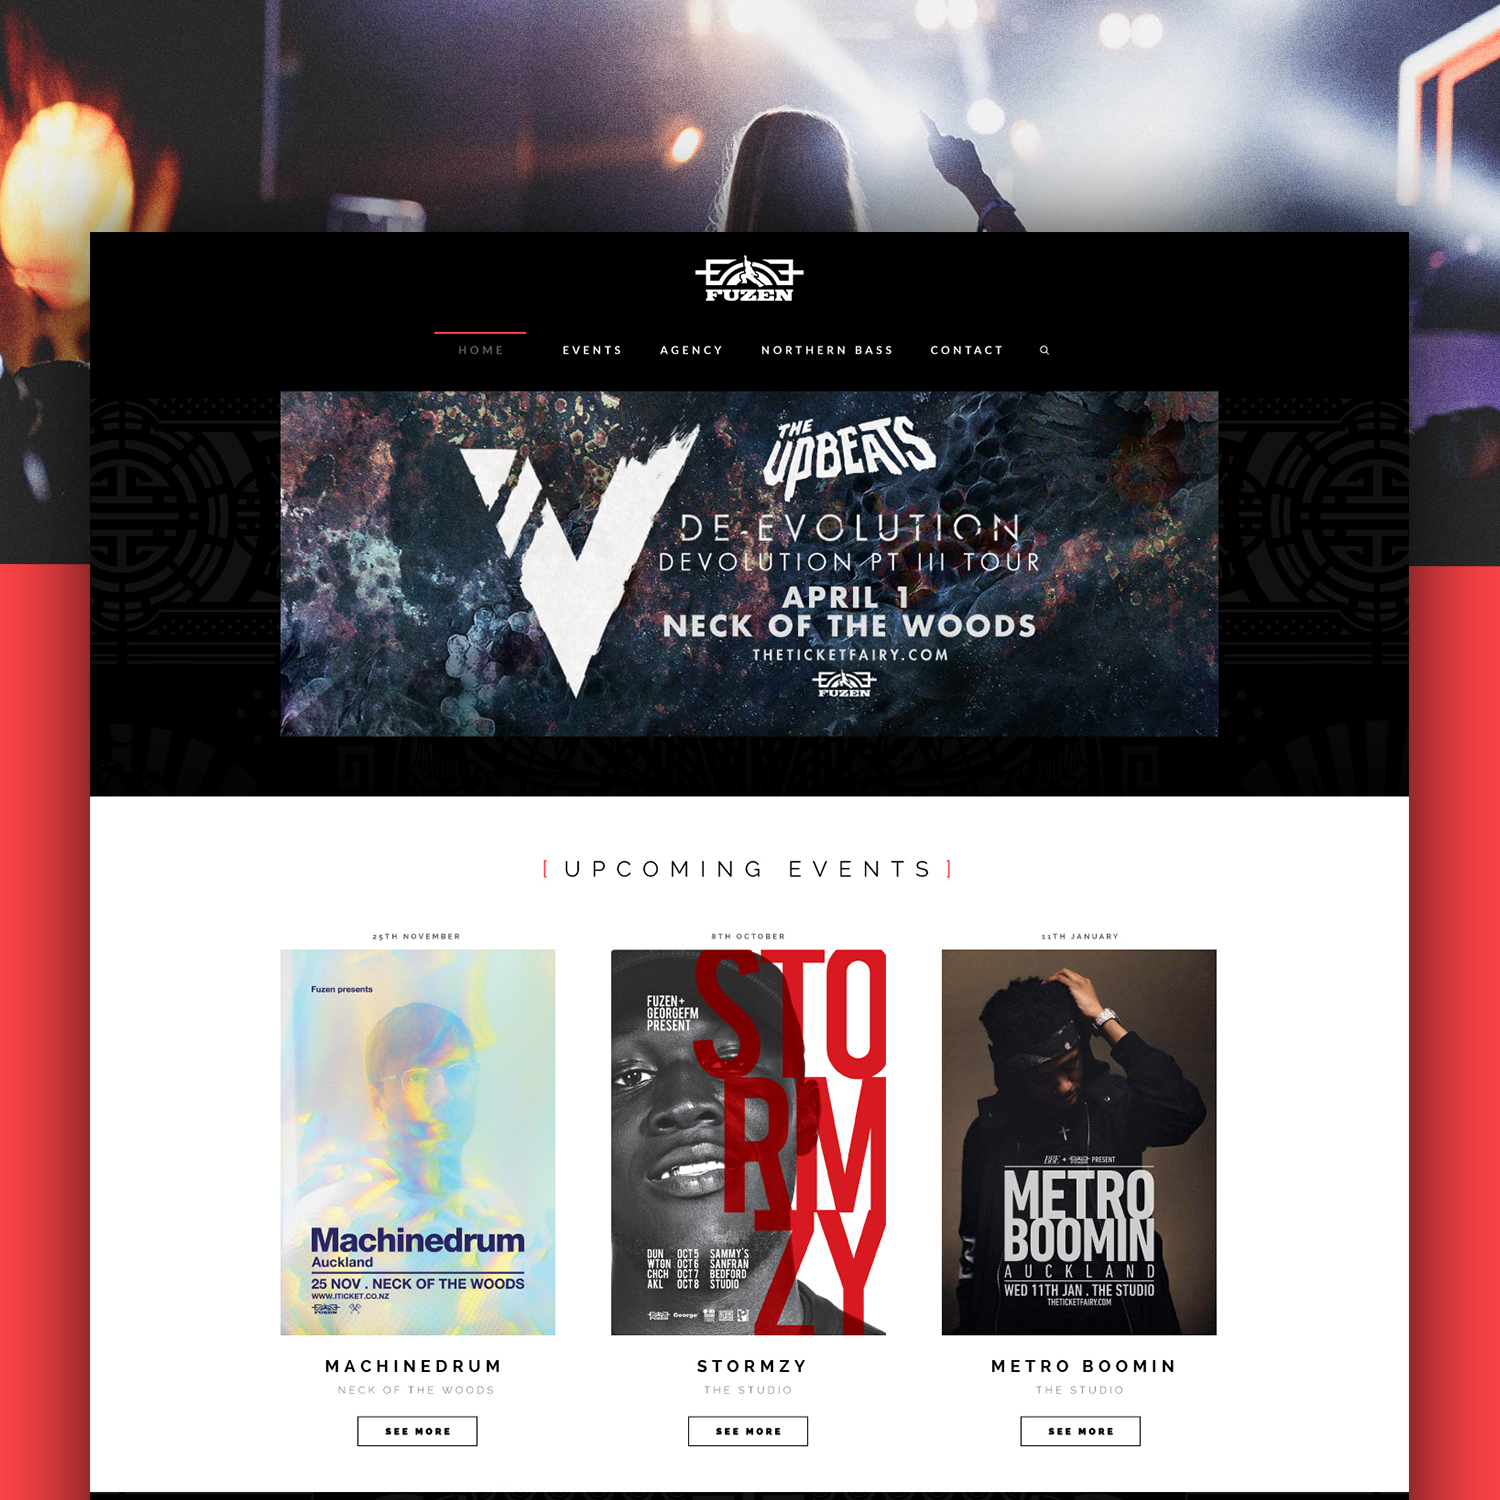
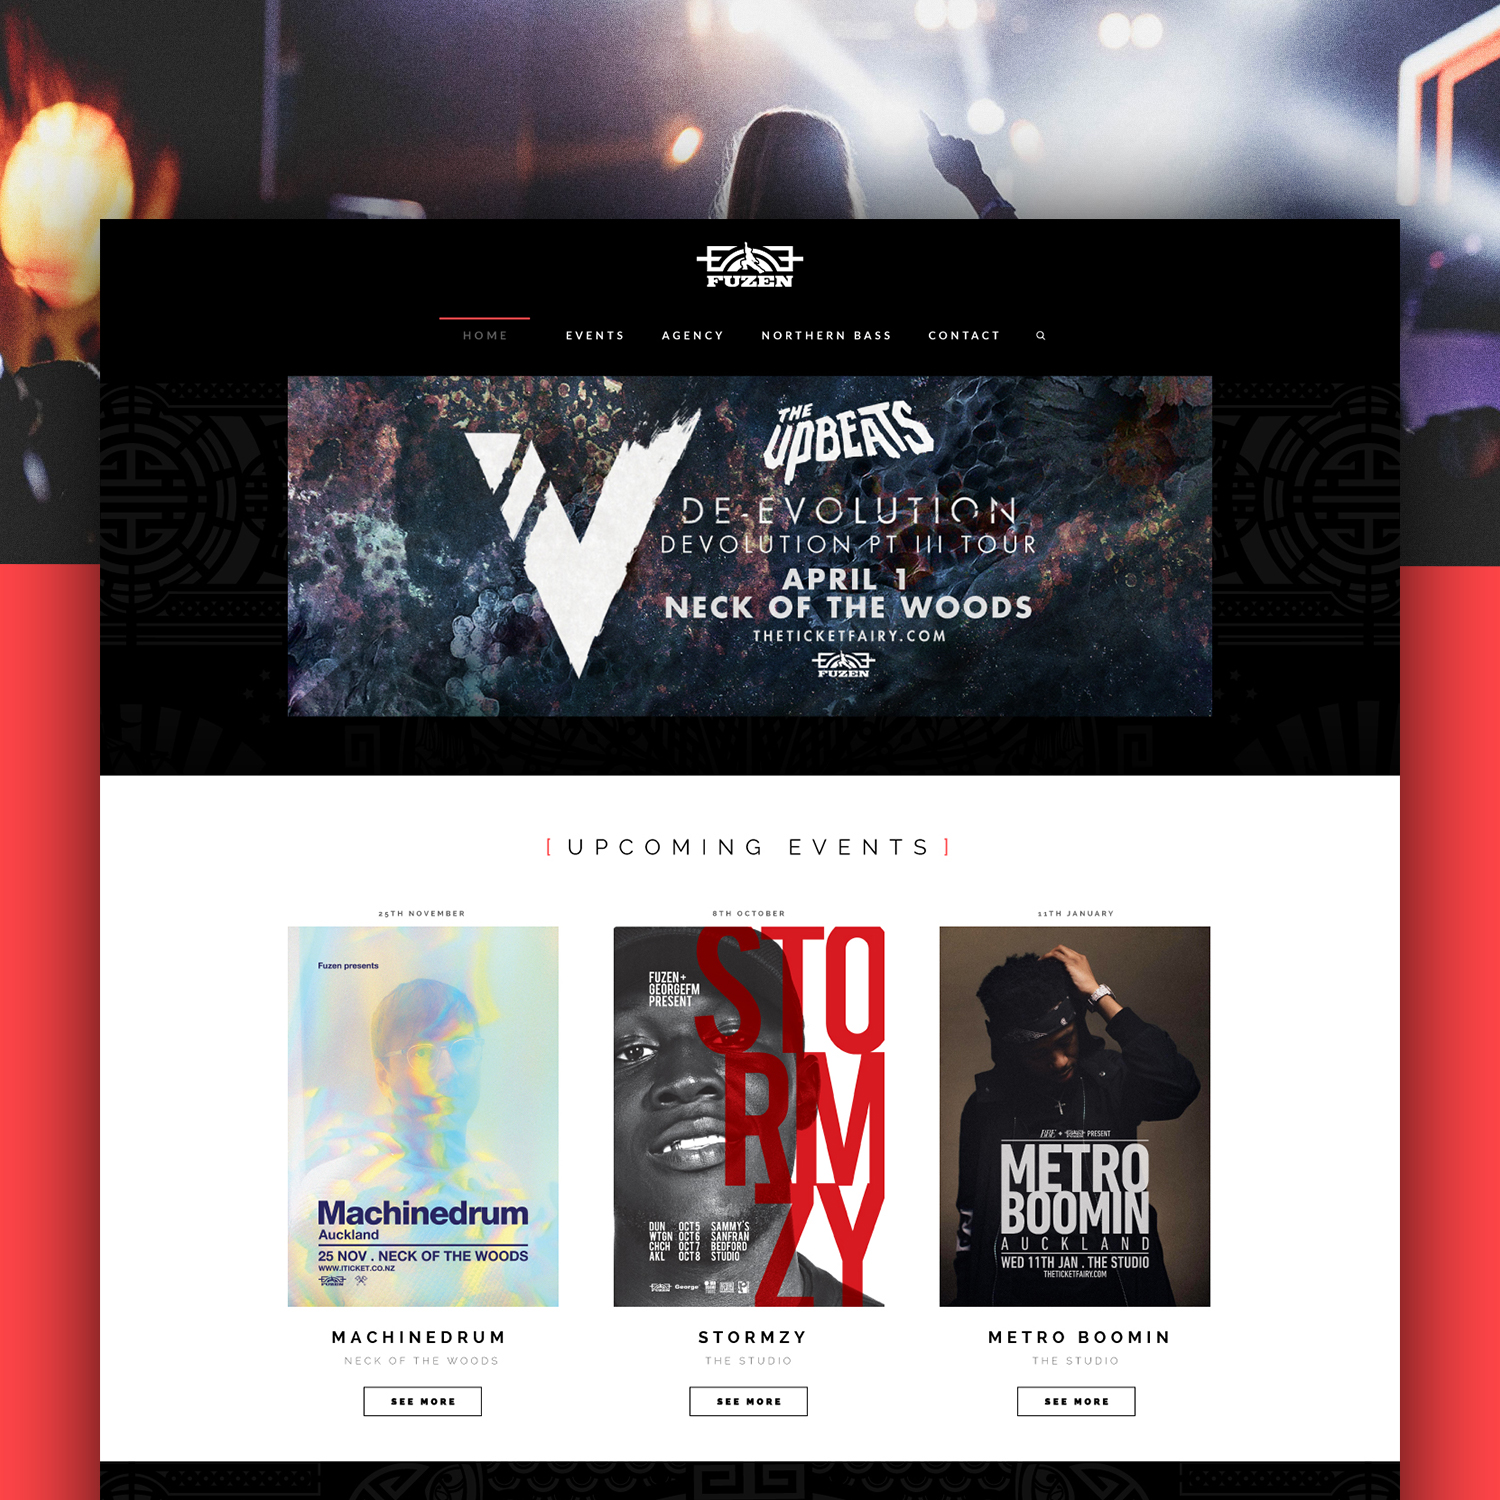
new commit

Changed region(s): [[0.0613, 0.1227, 0.9507, 1.0]]

diff --git a/public/styles/site.css b/public/styles/site.css
@@ -5885,9 +5885,8 @@ a:active, a:hover, a:focus {
   top: 0;
   width: 100vw;
   height: 100vh;
-  display: flex;
-  align-items: center;
-  justify-content: center;
+  display: block;
+  padding-top: 200px;
   transition: ease all 1s;
   -webkit-transition: ease all 1s;
   -moz-transition: ease all 1s; }
@@ -6481,8 +6480,81 @@ svg.client-logo {
   color: #fff;
   transform: translateY(-7px); }
 
+#menu-toggle span {
+  display: block;
+  background: #566973; }
+
+#menu-toggle {
+  cursor: pointer;
+  width: 100%;
+  height: 100%;
+  position: relative; }
+  #menu-toggle #menuButton {
+    position: absolute; }
+    #menu-toggle #menuButton .icon-bar {
+      height: 2px;
+      position: relative; }
+      #menu-toggle #menuButton .icon-bar:nth-child(1) {
+        width: 14px;
+        transition: .25s ease-in-out;
+        transition-delay: 0s; }
+      #menu-toggle #menuButton .icon-bar:nth-child(2) {
+        width: 22px;
+        transition: .25s ease-in-out;
+        transition-delay: .125s; }
+      #menu-toggle #menuButton .icon-bar:nth-child(3) {
+        width: 18px;
+        transition: .25s ease-in-out;
+        transition-delay: .25s; }
+  #menu-toggle #cross-container {
+    position: absolute;
+    left: 50%;
+    transform: translateX(-50%);
+    z-index: 1000000;
+    top: 100px; }
+  #menu-toggle #cross {
+    height: 40px;
+    width: 40px;
+    transform: rotate(45deg); }
+    #menu-toggle #cross span:nth-child(1) {
+      height: 0%;
+      width: 2px;
+      position: absolute;
+      top: 8%;
+      left: 18px;
+      transition: .25s ease-in-out; }
+    #menu-toggle #cross span:nth-child(2) {
+      width: 0%;
+      height: 2px;
+      position: absolute;
+      left: 8%;
+      top: 18px;
+      transition: .25s ease-in-out; }
+
+#menu-toggle.open #menuButton .icon-bar {
+  width: 0%; }
+  #menu-toggle.open #menuButton .icon-bar:nth-child(1) {
+    transition: .25s ease-in-out;
+    transition-delay: 0s; }
+  #menu-toggle.open #menuButton .icon-bar:nth-child(2) {
+    transition: .25s ease-in-out;
+    transition-delay: .125s; }
+  #menu-toggle.open #menuButton .icon-bar:nth-child(3) {
+    transition: .25s ease-in-out;
+    transition-delay: .25s; }
+
+#menu-toggle.open #cross span:nth-child(1) {
+  height: 80%;
+  transition: .25s ease-in-out;
+  transition-delay: .125s; }
+
+#menu-toggle.open #cross span:nth-child(2) {
+  width: 80%;
+  transition: .25s ease-in-out;
+  transition-delay: .25s; }
+
 .back-btn {
-  display: block !important;
+  display: block;
   position: absolute;
   left: 0;
   top: 10px;
@@ -6491,6 +6563,10 @@ svg.client-logo {
   .back-btn a {
     color: #888;
     font-size: 1.5em; }
+
+@media (max-width: 1270px) {
+  .back-btn {
+    display: none; } }
 
 .sign-in, .sign-out {
   position: absolute !important;
@@ -6515,7 +6591,7 @@ svg.client-logo {
     font-family: industry, sans-serif;
     font-weight: 800;
     letter-spacing: .3rem;
-    padding-top: 7px;
+    padding-top: 5px;
     display: inline-block;
     transition: ease all .2s;
     -webkit-transition: ease all .2s;
@@ -6652,8 +6728,14 @@ svg.client-logo {
 
 /* Dropdown Filter */
 .cat-menu {
+  opacity: 0;
+  margin-left: -20px;
   list-style: none;
-  display: inline-block; }
+  display: inline-block;
+  transition: ease all .3s;
+  -webkit-transition: ease all .3s;
+  -o-transition: ease all .3s;
+  -moz-transition: ease all .3s; }
   .cat-menu ul {
     padding-left: 0; }
   .cat-menu li {
@@ -6684,6 +6766,11 @@ svg.client-logo {
   margin-top: 0;
   letter-spacing: .3rem;
   display: inline-block; }
+
+.proj-cont .page-nav-cont:hover .cat-menu {
+  opacity: 1;
+  margin-left: 0px;
+  transition: ease all .3s; }
 
 .post-cont .row {
   margin: 0; }
@@ -6725,6 +6812,10 @@ svg.client-logo {
 
 .cp_embed_wrapper .embed-nav.group {
   display: none !important; }
+
+@media (max-width: 768px) {
+  .post .post-words div, .img-container {
+    padding: 0; } }
 
 .contact-form {
   float: none;

diff --git a/public/styles/site/_navbar.scss b/public/styles/site/_navbar.scss
@@ -120,10 +120,117 @@ $black: #000;
 }
 
 
-// BACK BUTTON 
 
+// NAVBAR HAMBURGER ANIMATION
+@mixin menu-transition{
+    transition:.25s ease-in-out;
+}
+
+#menu-toggle span {
+    display:block;
+    background:#566973;
+}
+
+#menu-toggle {
+    cursor:pointer;
+    width: 100%;
+    height: 100%;
+    position: relative;
+  &:hover {
+  }
+  #menuButton {
+    position:absolute;
+    .icon-bar {
+      height:2px;
+      position:relative;
+      &:nth-child(1){
+        width:14px;
+        @include menu-transition
+        transition-delay:0s;
+      }
+      &:nth-child(2){
+        width:22px;
+        @include menu-transition
+        transition-delay:.125s;
+      }
+      &:nth-child(3){
+        width:18px;
+        @include menu-transition
+        transition-delay:.25s;
+      }
+    }
+  }
+  #cross-container{
+    @include centererX
+    z-index: 1000000;
+    top: 100px;
+  }
+  #cross {
+    height:40px;
+    width:40px;
+    transform:rotate(45deg);
+    span{
+      &:nth-child(1){
+        height:0%;
+        width:2px;
+        position:absolute;
+        top:8%;
+        left:18px;
+        @include menu-transition
+      }
+      &:nth-child(2){
+        width:0%;
+        height:2px;
+        position:absolute;
+        left:8%;
+        top:18px;
+        @include menu-transition
+      }
+    }
+  }
+}
+
+#menu-toggle.open {
+  #menuButton {
+    .icon-bar {
+      width:0%;
+      &:nth-child(1){
+        @include menu-transition
+        transition-delay:0s;
+      }
+      &:nth-child(2){
+        @include menu-transition
+        transition-delay:.125s;
+      }
+      &:nth-child(3){
+        @include menu-transition
+        transition-delay:.25s;
+      }
+    }
+  }
+  #cross {
+    span {
+      &:nth-child(1){
+        height:80%;
+        @include menu-transition
+        transition-delay:.125s;
+      }
+    }
+    span {
+      &:nth-child(2){
+        width:80%;
+        @include menu-transition
+        transition-delay:.25s;
+      }
+    }    
+  }
+}
+
+
+
+// BACK BUTTON 
 .back-btn {
-    display: block !important;
+    display: block;
     position: absolute;
     left: 0;
     top: 10px;
@@ -132,6 +239,11 @@ $black: #000;
     a {
         color:#888;
         font-size:1.5em; 
+    }
+}
+@media (max-width: 1270px){
+    .back-btn{
+        display:none;
     }
 }
 
@@ -149,7 +261,7 @@ $black: #000;
 
 
 
-// Page Title for Header Animation
+// Page Title for Header
 .navbar-default.scrolled{
     background-color:rgba(255, 255, 255, 1);
 }
@@ -166,7 +278,7 @@ $black: #000;
         font-family: industry, sans-serif;
         font-weight: 800;
         letter-spacing:.3rem;
-        padding-top: 7px;
+        padding-top: 5px;
         display: inline-block;
         transition:ease all .2s;
         -webkit-transition:ease all .2s;

diff --git a/public/styles/site/_blog.scss b/public/styles/site/_blog.scss
@@ -104,13 +104,16 @@ h1 {
 
 // Blog Page 
 
-
-
-
 /* Dropdown Filter */
 .cat-menu{
+    opacity:0;
+    margin-left: -20px;
     list-style:none;
     display:inline-block;
+    transition: ease all .3s;
+    -webkit-transition: ease all .3s;
+    -o-transition: ease all .3s;
+    -moz-transition: ease all .3s;
     ul{
         padding-left:0;
     }
@@ -149,6 +152,17 @@ h1 {
         margin-top:0;
         letter-spacing: .3rem;
         display: inline-block;
+    }
+}
+
+
+// HOVER DISPLAY Cat Menu
+
+.proj-cont .page-nav-cont:hover{
+    .cat-menu{
+        opacity:1;
+        margin-left:0px;
+        transition: ease all .3s;
     }
 }
 

diff --git a/public/js/customScripts.js b/public/js/customScripts.js
@@ -27,7 +27,7 @@ $( document ).ready(function() {
 // Close Menu Button 
 
 $( document ).ready(function() {
-    var closeBtn = document.getElementById('closeMenu');
+    var closeBtn = document.getElementById('cross');
 
 	closeBtn.addEventListener('click', function() {
 		$('.outer-container').removeClass('blur');
@@ -42,6 +42,11 @@ $( document ).ready(function() {
 });
 
 
+// Navbar Toggle Animation
+
+$('#menu-toggle').click(function(){
+	$(this).toggleClass('open');
+})
 
 
 

diff --git a/public/styles/site/_variables.scss b/public/styles/site/_variables.scss
@@ -102,14 +102,13 @@ a:active, a:hover, a:focus {
     -moz-transition:ease all 1s;
 }
 .sc-nav-menu{
-	position: absolute;
+	  position: absolute;
     left:0;
     top: 0;
     width: 100vw;
     height:100vh;
-    display: flex;
-    align-items: center;
-    justify-content: center;
+    display: block;
+    padding-top:200px;
     transition:ease all 1s;
     -webkit-transition:ease all 1s;
     -moz-transition:ease all 1s;

diff --git a/public/styles/site/_project.scss b/public/styles/site/_project.scss
@@ -98,3 +98,11 @@ $black: #000;
 	}
 }
 
+
+// Small Screen Sizing
+
+@media (max-width:768px){
+	.post .post-words div, .img-container{
+		padding:0;
+	}
+}
